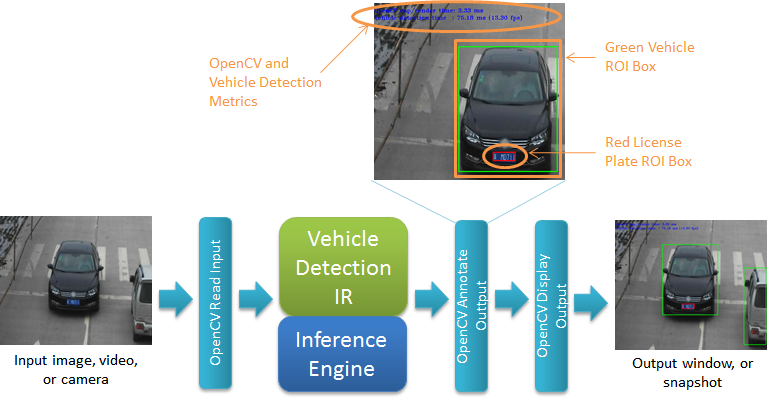
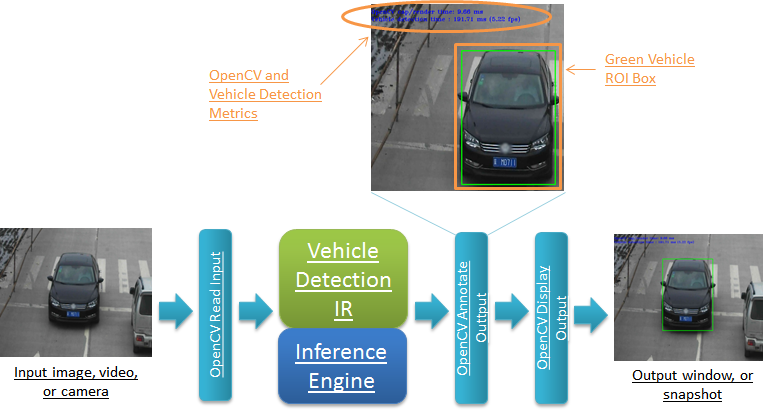
update car images

diff --git a/car_detection_tutorial/step_4/Readme.md b/car_detection_tutorial/step_4/Readme.md
@@ -272,10 +272,16 @@ enqueue() has the changes:
 ```
 
 
-2. The single "request" has been replaced to use current input request “requests[inputRequestIdx]”:
+2. The single "request" has been replaced to use current input request “requests[inputRequestIdx]” when using auto resize or not:
 
-```cpp
-        auto  inputBlob = requests[inputRequestIdx]->GetBlob(input);
+```Cpp
+       if (FLAGS_auto_resize) {
+            inputBlob = wrapMat2Blob(frame);
+            requests[inputRequestIdx]->SetBlob(input, inputBlob);
+       } else {
+		inputBlob = requests[inputRequestIdx]->GetBlob(input);
+		matU8ToBlob<uint8_t >(frame, inputBlob, enquedFrames);
+    	 }
 ```
 
 
@@ -329,10 +335,17 @@ enqueue() has the changes:
 ```
 
 
-2. The single "request" has been replaced to use current input request “requests[inputRequestIdx]”:
+2. The single "request" has been replaced to use current input request “requests[inputRequestIdx]” when using auto resize or not:
 
 ```cpp
-        auto  inputBlob = requests[inputRequestIdx]->GetBlob(input);
+        if (FLAGS_auto_resize) {
+            // ... same cropping code ... 
+            requests[inputRequestIdx]->SetBlob(inputName, inputBlob);
+        } else {
+        	// ... same cropping code ... 
+        	inputBlob = requests[inputRequestIdx]->GetBlob(inputName);
+		matU8ToBlob<uint8_t >(cropped, inputBlob, enquedVehicles);
+    	}
 ```
 
 
@@ -523,7 +536,7 @@ Stage #1 is responsible for checking for and then processing vehicle inference r
 ```
 
 
-6. The results are iterated through putting detected vehicles and license plates with the associated input frame:
+6. The results are iterated through putting detected vehicles and license plates (if model detects licenses plates too) with the associated input frame:
 
 ```Cpp
 				// store results for next pipeline stage
@@ -591,9 +604,7 @@ Stage #1 from Tutorial Step 3 does both submit and wait for a inference request.
 						if (VehicleAttribs.enquedVehicles >= VehicleAttribs.maxBatch) {
 							break;
 						}
-						auto clippedRect = ps1s2i.vehicleLocations[rib] & cv::Rect(0, 0, width, height);
-						auto Vehicle = (*ps1s2i.outputFrame)(clippedRect);
-						VehicleAttribs.enqueue(Vehicle);
+						VehicleAttribs.enqueue(*ps1s2i.outputFrame, ps1s2i.vehicleLocations[rib]);
 					}
 ```
 
@@ -843,14 +854,14 @@ source ../../scripts/setupenv.sh
 1. First, let us see how it works on a single image file using default synchronous mode.
 
 ```bash
-./intel64/Release/car_detection_tutorial -m $mVLP32 -m_va $mVA32 -i ../../data/car_1.bmp
+./intel64/Release/car_detection_tutorial -m $mVDR32 -m_va $mVA32 -i ../../data/car_1.bmp
 ```
 
 
-2. The output window will show the image overlaid with colored rectangles over the cars and license plate along with and the timing statistics for computing the results.  Run the command again in asynchronous mode using the option "-n_async 2":
+2. The output window will show the image overlaid with colored rectangles over the cars and license plate (if model detects licenses plates too) along with and the timing statistics for computing the results.  Run the command again in asynchronous mode using the option "-n_async 2":
 
 ```bash
-./intel64/Release/car_detection_tutorial -m $mVLP32 -m_va $mVA32 -i ../../data/car_1.bmp -n_async 2
+./intel64/Release/car_detection_tutorial -m $mVDR32 -m_va $mVA32 -i ../../data/car_1.bmp -n_async 2
 ```
 
 
@@ -859,14 +870,14 @@ source ../../scripts/setupenv.sh
 4. Next, let us try it on a video file. 
 
 ```bash
-./intel64/Release/car_detection_tutorial -m $mVLP32 -m_va $mVA32 -i ../../data/car-detection.mp4 -n_async 1
+./intel64/Release/car_detection_tutorial -m $mVDR32 -m_va $mVA32 -i ../../data/cars_768x768.h264 -n_async 1
 ```
 
 
 5. Over each frame of the video, you will see green rectangles drawn around the cars as they move through the parking lot.  Now run the command again in asynchronous mode using the option "-n_async 2":
 
 ```bash
-./intel64/Release/car_detection_tutorial -m $mVLP32 -m_va $mVA32 -i ../../data/car-detection.mp4 -n_async 2
+./intel64/Release/car_detection_tutorial -m $mVDR32 -m_va $mVA32 -i ../../data/cars_768x768.h264 -n_async 2
 ```
 
 
@@ -879,11 +890,11 @@ source ../../scripts/setupenv.sh
 1. Now we shift running the models to another device, the GPU.  First we run in synchronous mode then asynchronous with increasing -n_async values using the commands:
 
 ```Bash
-./intel64/Release/car_detection_tutorial -m $mVLP16 -d GPU -m_va $mVA16 -d_va GPU -i ../../data/car-detection.mp4 -n_async 1
-./intel64/Release/car_detection_tutorial -m $mVLP16 -d GPU -m_va $mVA16 -d_va GPU -i ../../data/car-detection.mp4 -n_async 2
-./intel64/Release/car_detection_tutorial -m $mVLP16 -d GPU -m_va $mVA16 -d_va GPU -i ../../data/car-detection.mp4 -n_async 4
-./intel64/Release/car_detection_tutorial -m $mVLP16 -d GPU -m_va $mVA16 -d_va GPU -i ../../data/car-detection.mp4 -n_async 8
-./intel64/Release/car_detection_tutorial -m $mVLP16 -d GPU -m_va $mVA16 -d_va GPU -i ../../data/car-detection.mp4 -n_async 16
+./intel64/Release/car_detection_tutorial -m $mVDR16 -d GPU -m_va $mVA16 -d_va GPU -i ../../data/cars_768x768.h264 -n_async 1
+./intel64/Release/car_detection_tutorial -m $mVDR16 -d GPU -m_va $mVA16 -d_va GPU -i ../../data/cars_768x768.h264 -n_async 2
+./intel64/Release/car_detection_tutorial -m $mVDR16 -d GPU -m_va $mVA16 -d_va GPU -i ../../data/cars_768x768.h264 -n_async 4
+./intel64/Release/car_detection_tutorial -m $mVDR16 -d GPU -m_va $mVA16 -d_va GPU -i ../../data/cars_768x768.h264 -n_async 8
+./intel64/Release/car_detection_tutorial -m $mVDR16 -d GPU -m_va $mVA16 -d_va GPU -i ../../data/cars_768x768.h264 -n_async 16
 ```
 
 
